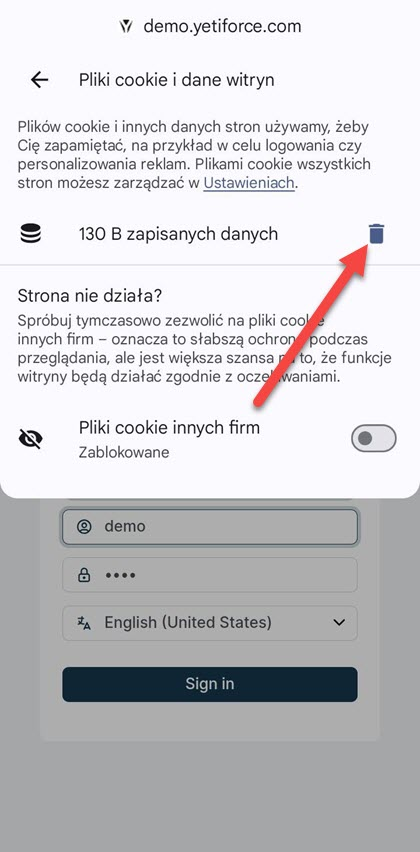
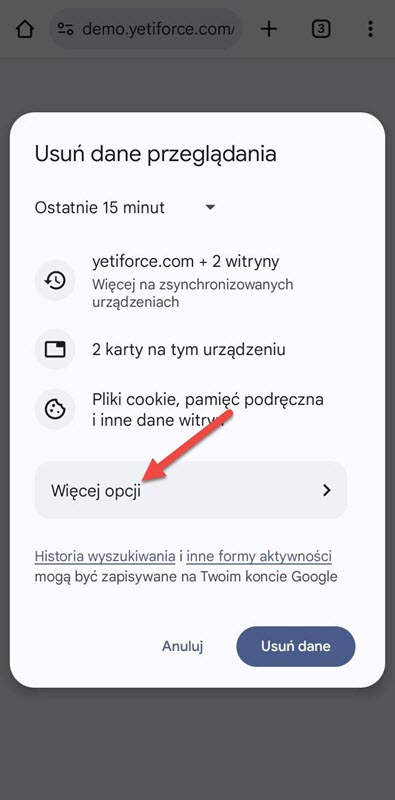
fix/YD-78-mobile-cache (#239)

diff --git a/docs/3-administrator-guides/01-faq/03-how-to-clear-browser-cache/README.md b/docs/3-administrator-guides/01-faq/03-how-to-clear-browser-cache/README.md
@@ -54,19 +54,19 @@ Wybierz wszystkie elementy, które chcesz usunąć i zakres czasowy
 ## Czyszczenie cache na urządzeniach mobilnych `Google Chrome`
 
 1. Otwórz YetiForce w aplikacji Google Chrome
-2. Kliknij w ikonę przed adresem strony
+2. Kliknij w ikonę menu ustawień
 
    ![mobile-chrome-1.jpg](mobile-chrome-1.jpg)
 
-3. Wybierz z listy `Pliki cookie i dane witryny`
+3. Wybierz z listy `Usuń dane przeglądania`
 
    ![mobile-chrome-2.jpg](mobile-chrome-2.jpg)
 
-4. Następnie kliknij w ikonę kosza <kbd><i class="fa-solid fa-trash"></i></kbd>
+4. Następnie kliknij w `Więcej opcji`
 
    ![mobile-chrome-3.jpg](mobile-chrome-3.jpg)
 
-5. Kliknij tekst <kbd>usuń</kbd>
+5. Oznacz elementy i kliknij <kbd>Usuń dane</kbd>
 
    ![mobile-chrome-4.jpg](mobile-chrome-4.jpg)
 
